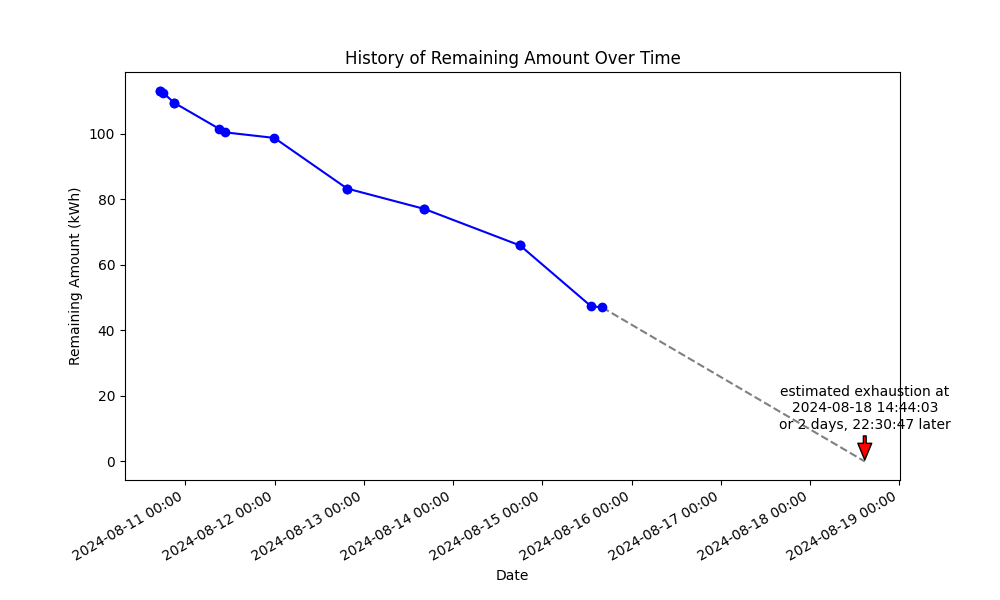
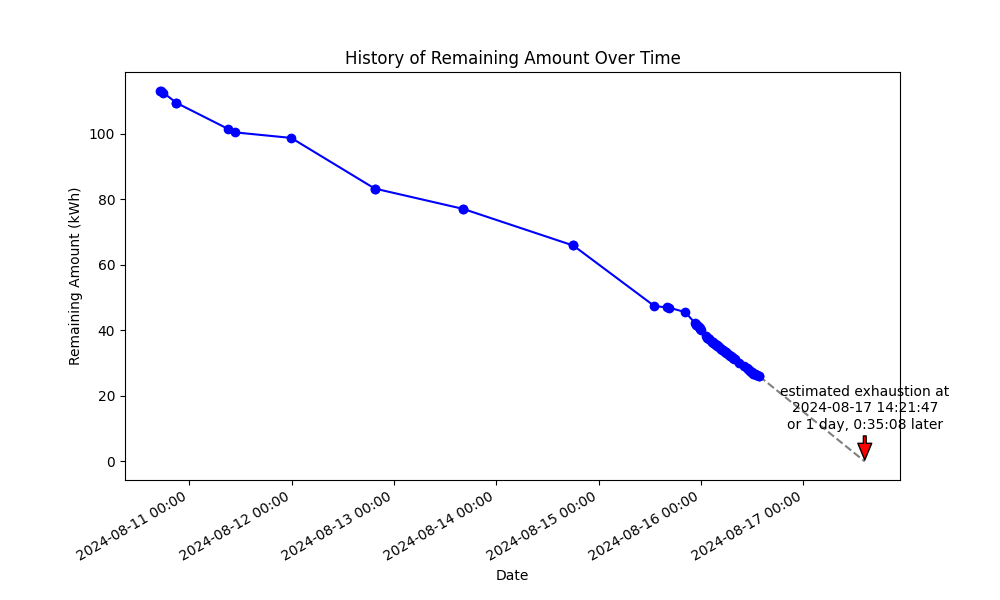
add passphrase for encryption

diff --git a/storage.py b/storage.py
@@ -1,0 +1,92 @@
+import os, base64, hashlib, bcrypt, hmac
+from cryptography.hazmat.primitives.kdf.scrypt import Scrypt
+from cryptography.hazmat.primitives import hashes, padding
+from cryptography.hazmat.primitives.ciphers import Cipher, algorithms, modes
+from cryptography.hazmat.backends import default_backend
+
+
+def encrypt(data: bytes, passphrase: str) -> bytes:
+    salt = os.urandom(16)
+    kdf = Scrypt(salt=salt, length=32, n=2**14, r=8, p=1, backend=default_backend())
+    key = kdf.derive(passphrase.encode())
+    iv = os.urandom(16)
+    cipher = Cipher(algorithms.AES(key), modes.CBC(iv), backend=default_backend())
+    encryptor = cipher.encryptor()
+    padder = padding.PKCS7(algorithms.AES.block_size).padder()
+    padded_data = padder.update(data) + padder.finalize()
+    ciphertext = encryptor.update(padded_data) + encryptor.finalize()
+    return salt + iv + ciphertext
+
+
+def decrypt(encrypted_data: bytes, passphrase: str) -> bytes:
+    salt = encrypted_data[:16]
+    iv = encrypted_data[16:32]
+    ciphertext = encrypted_data[32:]
+    kdf = Scrypt(salt=salt, length=32, n=2**14, r=8, p=1, backend=default_backend())
+    key = kdf.derive(passphrase.encode())
+    cipher = Cipher(algorithms.AES(key), modes.CBC(iv), backend=default_backend())
+    decryptor = cipher.decryptor()
+    padded_data = decryptor.update(ciphertext) + decryptor.finalize()
+    unpadder = padding.PKCS7(algorithms.AES.block_size).unpadder()
+    data = unpadder.update(padded_data) + unpadder.finalize()
+    return data
+
+
+class storage_exception(Exception):
+    pass
+
+
+class csv_storage(object):
+    filepath: str
+    filename: str
+    passphrase: str
+
+    def __init__(self, name: str, passphrase: str):
+        self.passphrase = passphrase
+        # get file name using hash
+        passphrase_bytes = passphrase.encode("utf-8")
+        input_bytes = name.encode("utf-8")
+        # generate hash using HMAC-SHA1
+        hmac_hash = hmac.new(passphrase_bytes, input_bytes, hashlib.sha1)
+        self.filepath = f"logs/{hmac_hash.hexdigest()}"
+        self.filename = f"{self.filepath}/log.enc"
+        if not os.path.exists(self.filepath):
+            os.mkdir(self.filepath)
+
+    def read(self) -> str:
+        if not os.path.exists(self.filename):
+            raise storage_exception(
+                "history file not found. probably incorrect passphrase and/or dorm_name?"
+            )
+        with open(self.filename, "rb") as f:
+            content = f.read()
+        content = decrypt(content, self.passphrase)
+        content = content.decode()
+        return content
+
+    def write(self, content: str):
+        content = encrypt(content.encode(), self.passphrase)
+        with open(self.filename, "wb") as f:
+            f.write(content)
+
+    def append(self, content: str):
+        # create an empty file if not exist
+        if not os.path.exists(self.filename):
+            # not really empty though
+            self.write("")
+        content = self.read() + content
+        self.write(content)
+
+
+# 示例使用
+if __name__ == "__main__":
+    name = "l"
+    passphrase = "123123"
+    content = "sdfsdfsdfsdf\n"
+
+    c = csv_storage(name, passphrase)
+
+    c.append(content)
+    cont = c.read()
+
+    print("read:", cont)

diff --git a/query.py b/query.py
@@ -3,10 +3,13 @@ from datetime import datetime, timedelta
 from config import cookies, json_or_exit
 from pathlib import Path
 import hashlib
+from storage import csv_storage
+
 
 class bad_query(Exception):
     # subclass but acts exactly as the base class
     pass
+
 
 class verbose_dict(dict):
     def __getitem__(self, key):
@@ -27,7 +30,8 @@ class verbose_dict(dict):
                 f"attribute '{key}' not found. available: {sorted(available_keys)}"
             )
 
-def do_query(query_str:str):
+
+def do_query(query_str: str, passphrase: str):
     # check if such room exists
     query_name = query_str.split("@")
     if len(query_name) != 2:
@@ -65,33 +69,27 @@ def do_query(query_str:str):
     res: dict = json_or_exit(responce)
 
     data = res["d"]["data"]
-    remain = data["surplus"] + data["freeEnd"] # 剩余电量 + 剩余赠送电量
+    remain = data["surplus"] + data["freeEnd"]  # 剩余电量 + 剩余赠送电量
     time = datetime.fromisoformat(data["time"])
 
-    # encode filename
-    hashobj = hashlib.sha1()
-    hashobj.update(room_name.encode())
-    history_file = f"logs/{hashobj.hexdigest()}.csv"
-
-    # write first row of csv
-    if not os.path.exists(history_file):
-        with open(history_file, "wt", encoding="utf-8") as f:
-            f.write("remain, query time, request time\n")
-
     # append query result to csv
-    with open(history_file, "at", encoding="utf-8") as f:
-        f.write(f"{remain}, {time}, {datetime.now()}\n")
+    cs = csv_storage(room_name, passphrase)
+    cs.append(f"{remain}, {time}, {datetime.now()}\n")
 
-    print(f"successfully saved to {history_file}")
+    print(f"successfully saved to {cs.filename}")
 
 
 def show_help_exit():
-    print("usage: query.py <query_str>[,<query_str2>]")
-    print("example: query.py 西土城.学五楼.3.5-312-节能蓝天@学五-312宿舍,沙河.沙河校区雁北园A楼.1层.A楼102@沙河A102宿舍")
+    print("usage: query.py <query_str>[,query_str2,...] <passphrase>")
+    print(
+        "example: query.py 西土城.学五楼.3.5-312-节能蓝天@学五-312宿舍,沙河.沙河校区雁北园A楼.1层.A楼102@沙河A102宿舍 example_passphrase"
+    )
     exit(1)
+
+
 # main logic
 
-if len(sys.argv) != 2:
+if len(sys.argv) != 3:
     print("invalid arguments.")
     show_help_exit()
 
@@ -101,5 +99,7 @@ with open("dormitory_info.json", "rt", encoding="utf-8") as f:
     dormitory_info: dict = verbose_dict(json.load(f))
 print(f" done")
 
-for qs in sys.argv[1].split(','):
-    do_query(qs)
+passphrase = sys.argv[2]
+
+for qs in sys.argv[1].split(","):
+    do_query(qs, passphrase)

diff --git a/plot.py b/plot.py
@@ -6,13 +6,15 @@ import matplotlib.dates as mdates
 # configs
 warning_timedelta = dt.timedelta(days=3)
 recent_timedelta = dt.timedelta(days=7)
-
+estimate_timedelta = dt.timedelta(days=1)
 
 # reads csv and returns history
 def read_csv():
     history: list[tuple[float, dt.datetime, dt.datetime]] = []
 
-    with open("history.csv", "rt", encoding="utf-8") as f:
+    with open(
+        "logs/d7fe8b41d5fd171c226357e7060d3b8b011e835d.csv", "rt", encoding="utf-8"
+    ) as f:
         reader = csv.reader(f)
         next(reader)
         for rows in reader:
@@ -197,12 +199,15 @@ def plot_exhaustion(
     history_decharged: list[tuple[float, dt.datetime, dt.datetime]],
     history_last: tuple[float, dt.datetime, dt.datetime],
 ):
-    # 取最后5次采样的数据
-    last5 = history_decharged[-5:]
+    tlast = history_last[1]
+    for i, (v, tq, tr) in enumerate(history_decharged):
+        if tlast - tq < estimate_timedelta:
+            break
+    history_decharged = history_decharged[i:]
 
     # 分离出电量值和时间戳
-    values = np.array([item[0] for item in last5])
-    timestamps = np.array([item[1].timestamp() for item in last5])
+    values = np.array([item[0] for item in history_decharged])
+    timestamps = np.array([item[1].timestamp() for item in history_decharged])
 
     # linear fit
     slope, intercept = np.polyfit(timestamps, values, 1)  # k, b
@@ -215,7 +220,6 @@ def plot_exhaustion(
 
     # y=kx+b
     # y=0 => kx=-b => x=-b/k
-    # 使用拟合模型预测电量为0时的时间戳
     exhaustion_x = -intercept / slope
     exhaustion_y = 0.0
 
@@ -267,7 +271,7 @@ def plot_watts(history_decharged: list[tuple[float, dt.datetime, dt.datetime]]):
     values = np.array([x[0] for x in history_decharged])
     diffs = values[:-1] - values[1:]
     watts = diffs / [x.total_seconds() for x in widths] * 3.6e6
-    plt.bar(timestamps, watts, width=widths, align='edge', color='skyblue')
+    plt.bar(timestamps, watts, width=widths, align="edge", color="skyblue")
 
 
 if __name__ == "__main__":
